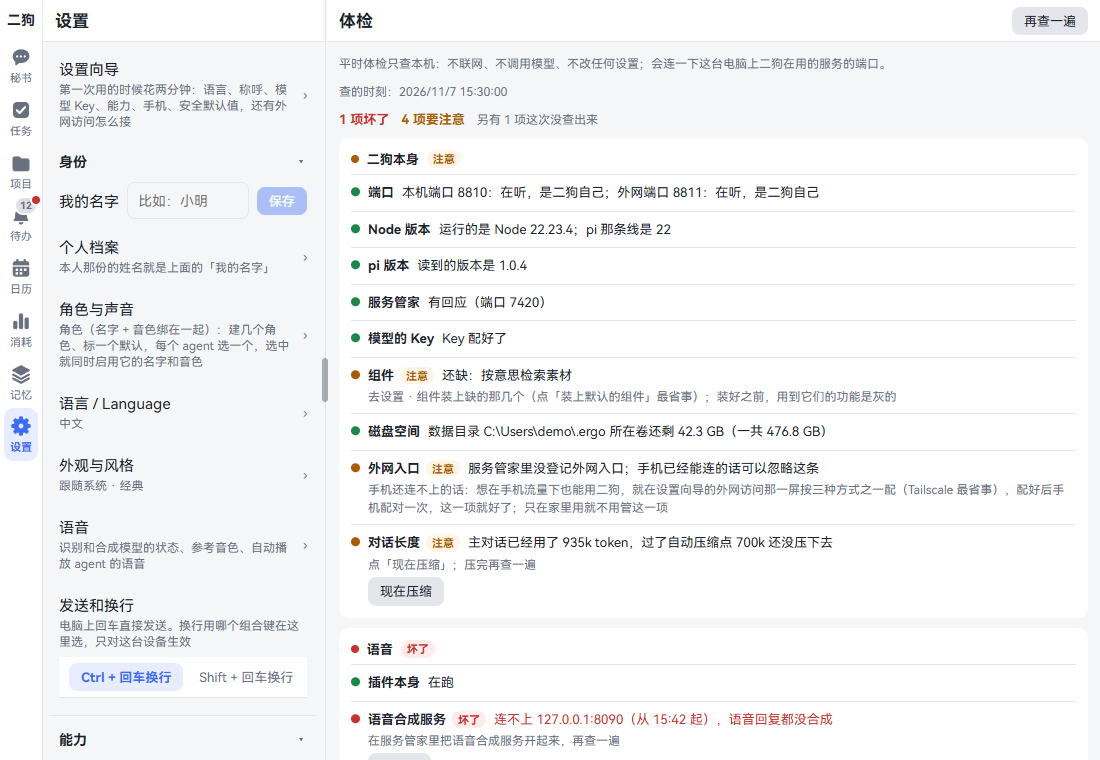
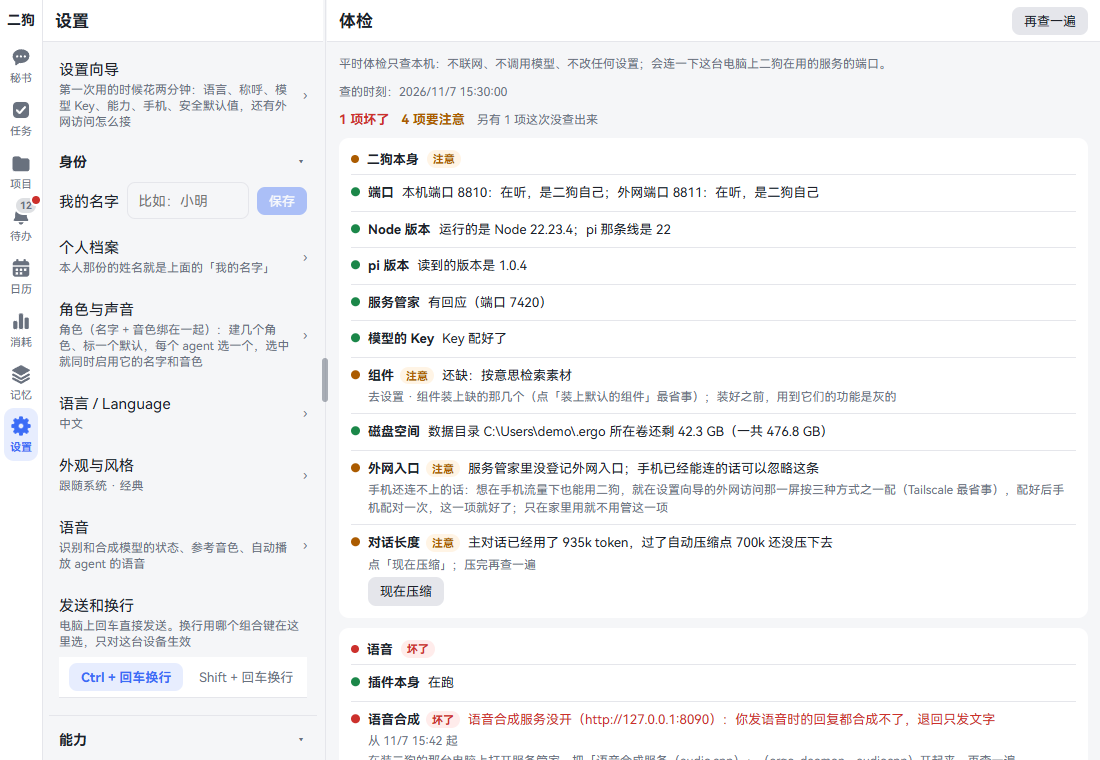
feat: 体检页的"去看看"能新开一页打开服务管家；原型的语音那一块换成真的五项，手册写语音插件自带的体检项（413）
- 网页：动作是 open、地址是这台电脑上别的网页（http(s)，服务管家）时画成新开一页的链接（和设备配对页"打开服务管家"一样），样子同按钮、不画下划线；二狗自己的地址照旧是按钮
- 原型 fake-doctor.ts：语音那一块是五项——合成服务没开（从 15:42 起，修法写到服务管家把 ergo-daemon--audiocpp 开起来，去看看跳服务管家），识别、参考音色、ffmpeg、N 卡正常；句子照 voice.json 抄，英文照表换
- 手册（中英）：体检一节加语音插件的五项和"语音回复、语音输入算开着"的说法，去看看可能另开服务管家；配图换成原型新的样子；插件开发手册的体检项一段加语音插件这个例子；CHANGELOG
- 测试：外面的网页画成链接、点了不经页面跳转；原型语音那一块的五项和合成那一项的动作

Claude-Session: https://claude.ai/code/session_01LuccspkYbJahV5zpQMTyxW

Changed region(s): [[0.3091, 0.9382, 0.9273, 1.0]]

diff --git a/packages/web/src/prototype/fake-doctor.ts b/packages/web/src/prototype/fake-doctor.ts
@@ -2,11 +2,12 @@
 // - 二狗本身：八项（组件缺记忆的向量模型、外网入口没查到依据，都是注意，各带修法；句子由协议包的八项拼句按当前语言拼），
 //   加一项编的"对话长度"（主对话过了自动压缩点，带"现在压缩"按钮；410 做的那种）；
 // - 插件块：每个在跑的插件一块（插件本身在跑）；记忆多两项（推理库正常、记忆简报这次没查出来），Looki 的数据源过期（跳到数据源详情），
-//   语音合成服务坏了（跳到设置 · 语音），Codex 要的外部程序没装（插件本身和运行时都是不适用），手机、Google 的数据源正常，
+//   语音那一块是 413 的五项（合成服务连不上、从 15:42 起，修法写到服务管家把组件装的那一条开起来，"去看看"跳服务管家的网页；
+//   识别、参考音色、ffmpeg、N 卡正常），Codex 要的外部程序没装（插件本身和运行时都是不适用），手机、Google 的数据源正常，
 //   Claude Code 的运行时正常；
 // - 停用、移除了的插件（地址带 ?demo-plugins-off=…）不成块，只列名字。
-// 二狗替插件生成的那几项照守护进程的文案键拼（doctorItemText，和真的一样）；插件自己的检查项（412、413 才做）是编好的中文，
-// 英文在 en/fake-doctor.ts（假 HTTP 照表换）。
+// 二狗替插件生成的那几项照守护进程的文案键拼（doctorItemText，和真的一样）；插件自己的检查项是编好的中文（插件的文案键在插件自己的
+// 语言文件里，网页的词典里没有；语音那几句照 voice.json 的 voice.doctor.* 抄），英文在 en/fake-doctor.ts（假 HTTP 照表换）。
 import {
   coreDoctorItem,
   DOCTOR_CHECKS,
@@ -54,10 +55,19 @@ function keyed(id: string, level: DoctorLevel, title: DoctorMessage, fact: Docto
   return { id, level, ...shape, ...(extra.since ? { since: extra.since } : {}), ...(extra.action ? { action: extra.action } : {}), text: doctorItemText(shape) };
 }
 
-/** 编好句子的一项（插件自己的检查项：文案键在插件的语言文件里，412、413 才有，这里直接写句子） */
-function said(id: string, level: DoctorLevel, title: string, fact: string, extra: { fix?: string; action?: DoctorAction } = {}): DoctorItemView {
+/** 编好句子的一项（插件自己的检查项：文案键在插件的语言文件里，网页拿不到，这里直接写句子） */
+function said(id: string, level: DoctorLevel, title: string, fact: string, extra: { fix?: string; since?: string; action?: DoctorAction } = {}): DoctorItemView {
   const demo: DoctorMessage = { key: "demo" };
-  return { id, level, title: demo, fact: demo, ...(extra.fix ? { fix: demo } : {}), ...(extra.action ? { action: extra.action } : {}), text: { title, fact, ...(extra.fix ? { fix: extra.fix } : {}) } };
+  return {
+    id,
+    level,
+    title: demo,
+    fact: demo,
+    ...(extra.fix ? { fix: demo } : {}),
+    ...(extra.since ? { since: extra.since } : {}),
+    ...(extra.action ? { action: extra.action } : {}),
+    text: { title, fact, ...(extra.fix ? { fix: extra.fix } : {}) },
+  };
 }
 
 /** 时间写成"11/7 14:30"这样（和守护进程一样） */
@@ -73,9 +83,17 @@ function extras(name: string): DoctorItemView[] {
       // 记忆简报这次没查出来：事实和修法是体检自己的那两句
       return [said("graph", "ok", "推理库", "能打开；昨晚 03:12 整理过"), said("brief", "unknown", "记忆简报", t("doctor.unknown.timeout", { seconds: 1.5 }), { fix: t("doctor.fix.retry") })];
     case "voice":
+      // 413 的五项：合成服务停了（组件装的那一条），去看看跳服务管家的网页
       return [
-        said("speech", "error", "语音合成服务", "连不上 127.0.0.1:8090（从 15:42 起），语音回复都没合成", { fix: "在服务管家里把语音合成服务开起来，再查一遍", action: { kind: "open", route: "#/more/voice" } }),
-        said("recognizer", "ok", "语音识别服务", "在听（127.0.0.1:8091）"),
+        said("speech", "error", "语音合成", "语音合成服务没开（http://127.0.0.1:8090）：你发语音时的回复都合成不了，退回只发文字", {
+          fix: "在装二狗的那台电脑上打开服务管家，把「语音合成服务（audio.cpp）」（ergo-daemon--audiocpp）开起来，再查一遍",
+          since: "2026-11-07T15:42:00+08:00",
+          action: { kind: "open", route: "http://127.0.0.1:7420/" },
+        }),
+        said("recognizer", "ok", "语音识别", "服务管家托管的识别服务（127.0.0.1:8091）：模型加载好了（large-v3）"),
+        said("references", "ok", "参考音色", "有 2 条，语音回复用「示例音色」"),
+        said("ffmpeg", "ok", "ffmpeg", "找到了：C:\\Tools\\ffmpeg\\bin\\ffmpeg.exe"),
+        said("gpu", "ok", "N 卡", "有 N 卡：语音合成、识别跑在显卡上"),
       ];
     case "looki":
       return [

diff --git a/packages/web/src/pages/more/DoctorPage.tsx b/packages/web/src/pages/more/DoctorPage.tsx
@@ -2,7 +2,8 @@
 // 最上面一句说明，然后是总状态（坏了几项、要注意几项、都正常；没查出来的另起一句灰字）和查的时刻；下面按块显示——
 // "二狗本身"一块在最前，每个在跑或没装上的插件一块（有问题的在前），块头是名字和这一块最差的结果；
 // 每项一行：结果的小圆点、名字（不正常的带结果的小签）、查出来的事实、"从什么时候起"、怎么修，带动作的有一个按钮
-// （去看看：跳到那一页；现在压缩：和会话 ⚙ 里同一个接口）；不适用的淡显、排在块的最后。停用了的插件最底下一行列名字。
+// （去看看：跳到那一页，是二狗之外的网页——服务管家——就新开一页；现在压缩：和会话 ⚙ 里同一个接口）；不适用的淡显、排在块的最后。
+// 停用了的插件最底下一行列名字。
 // 右上"再查一遍"（重新请求 GET /api/doctor）。演示页用原型编的一份（prototype/fake-doctor.ts）。
 // 每项查什么、几级怎么判、句子怎么拼都在守护进程（packages/daemon/src/doctor/）；形状在共享协议包的 doctor.ts；
 // 页面上的几句（总状态、几种结果的叫法、"从什么时候起"）在 app/doctor.ts，中英文案在 locales/*/doctor.json。
@@ -12,7 +13,7 @@ import { doctorActionText, doctorAtText, doctorLevelText, doctorOffText, doctorS
 import { useDoctor } from "../../app/page-doctor.ts";
 import { type Navigate, parseHash } from "../../app/route.ts";
 import { useStore } from "../../app/store.tsx";
-import { type DoctorAction, type DoctorGroupView, type DoctorItemView, type DoctorView, t } from "../../state/index.ts";
+import { type DoctorAction, type DoctorGroupView, type DoctorItemView, type DoctorView, isExternalDoctorRoute, t } from "../../state/index.ts";
 import { TopBar } from "../../ui/common.tsx";
 import { useToast } from "../../ui/toast.tsx";
 
@@ -44,9 +45,16 @@ export function DoctorItemRow({ item, onAction, busy }: { item: DoctorItemView }
         {item.text.fix !== undefined && <span className="doctor-fix">{item.text.fix}</span>}
         {action && (
           <span className="doctor-action">
-            <button type="button" className="btn ghost small" data-action={action.kind} disabled={doing || onAction === undefined} onClick={() => onAction?.(action)}>
-              {doctorActionText(action, doing)}
-            </button>
+            {action.kind === "open" && isExternalDoctorRoute(action.route) ? (
+              // 二狗之外的网页（服务管家）：新开一页，和设备配对页"打开服务管家"一样是个链接
+              <a className="btn ghost small" data-action={action.kind} href={action.route} target="_blank" rel="noreferrer">
+                {doctorActionText(action)}
+              </a>
+            ) : (
+              <button type="button" className="btn ghost small" data-action={action.kind} disabled={doing || onAction === undefined} onClick={() => onAction?.(action)}>
+                {doctorActionText(action, doing)}
+              </button>
+            )}
           </span>
         )}
       </div>

diff --git a/packages/web/src/prototype/en/fake-doctor.ts b/packages/web/src/prototype/en/fake-doctor.ts
@@ -5,11 +5,18 @@ export const EN_DOCTOR: Phrases = {
   "推理库": "Reasoning store",
   "能打开；昨晚 03:12 整理过": "Opens fine; tidied up at 03:12 last night",
   "记忆简报": "Memory briefing",
-  "语音合成服务": "Speech synthesis service",
-  "连不上 127.0.0.1:8090（从 15:42 起），语音回复都没合成": "Can't reach 127.0.0.1:8090 (since 15:42); no voice replies were synthesized",
-  "在服务管家里把语音合成服务开起来，再查一遍": "Start the speech synthesis service in the service manager, then run the checkup again",
-  "语音识别服务": "Speech recognition service",
-  "在听（127.0.0.1:8091）": "Listening (127.0.0.1:8091)",
+  "语音合成": "Speech synthesis",
+  "语音合成服务没开（http://127.0.0.1:8090）：你发语音时的回复都合成不了，退回只发文字":
+    "The speech synthesis service isn't running (http://127.0.0.1:8090): replies to your voice messages can't be synthesized and fall back to text only",
+  "在装二狗的那台电脑上打开服务管家，把「语音合成服务（audio.cpp）」（ergo-daemon--audiocpp）开起来，再查一遍":
+    "On the computer running ergo, open the service manager, start “Speech synthesis service (audio.cpp)” (ergo-daemon--audiocpp), then run the checkup again",
+  "语音识别": "Speech recognition",
+  "服务管家托管的识别服务（127.0.0.1:8091）：模型加载好了（large-v3）": "The recognition service run by the service manager (127.0.0.1:8091): model loaded (large-v3)",
+  "参考音色": "Reference voices",
+  "有 2 条，语音回复用「示例音色」": "2 available; voice replies use “Sample voice”",
+  "找到了：C:\\Tools\\ffmpeg\\bin\\ffmpeg.exe": "Found: C:\\Tools\\ffmpeg\\bin\\ffmpeg.exe",
+  "N 卡": "NVIDIA GPU",
+  "有 N 卡：语音合成、识别跑在显卡上": "NVIDIA GPU present: speech synthesis and recognition run on the GPU",
   "没装 Codex：在终端里跑 npm i -g @openai/codex，装好后在设置 · 插件里启用": "Codex isn't installed: run npm i -g @openai/codex in a terminal, then enable it in Settings · Plugins",
   "对话长度": "Conversation length",
   "主对话已经用了 935k token，过了自动压缩点 700k 还没压下去": "The main conversation is at 935k tokens, past its auto-compaction point of 700k, and hasn't been compacted",

diff --git a/packages/web/test/pages/doctor.test.ts b/packages/web/test/pages/doctor.test.ts
@@ -143,6 +143,18 @@ describe("按块显示", () => {
     expect(knownDoctorAction({ kind: "open", route: "#/more/plugins" })).toBe(true);
     expect(doctorActionText({ kind: "open", route: "#/more/plugins" })).toBe("去看看");
   });
+
+  test("去看看跳二狗之外的网页（服务管家，413）：画成新开一页的链接，不经页面的跳转", () => {
+    const speech = item("speech", "error", "语音合成", "连不上", { action: { kind: "open", route: "http://127.0.0.1:7420/" } });
+    let clicked = 0;
+    const html = renderToStaticMarkup(createElement(DoctorItemRow, { item: speech, onAction: () => (clicked += 1) }));
+    expect(html).toContain('<a class="btn ghost small" data-action="open" href="http://127.0.0.1:7420/" target="_blank" rel="noreferrer">去看看</a>');
+    expect(html).not.toContain("<button");
+    expect(clicked).toBe(0);
+    // 二狗自己的地址照旧是按钮
+    const inside = renderToStaticMarkup(createElement(DoctorItemRow, { item: { ...speech, action: { kind: "open", route: "#/more/voice" } }, onAction: noop }));
+    expect(inside).toContain('<button type="button" class="btn ghost small" data-action="open"');
+  });
 });
 
 /** 原型的插件清单（off 里的停用了） */
@@ -163,6 +175,18 @@ describe("原型编的一份", () => {
     expect(view.groups.find((g) => g.id === "memory")!.items.find((i) => i.id === "brief")!.text.fact).toBe("这次没查出来：1.5 秒内没查完");
     // 坏了的插件块排在前面（语音），总状态是坏了
     expect(view.groups[1]!.id).toBe("voice");
+    // 语音那一块是 413 的五项：合成服务坏了（从 15:42 起，去看看跳服务管家的网页），别的正常
+    const voice = view.groups[1]!.items;
+    expect(voice.map((i) => [i.id, i.level])).toEqual([
+      ["plugin", "ok"],
+      ["speech", "error"],
+      ["recognizer", "ok"],
+      ["references", "ok"],
+      ["ffmpeg", "ok"],
+      ["gpu", "ok"],
+    ]);
+    expect(voice[1]).toMatchObject({ since: "2026-11-07T15:42:00+08:00", action: { kind: "open", route: "http://127.0.0.1:7420/" } });
+    expect(voice[1]!.text.fix).toContain("服务管家");
     expect(view.level).toBe("error");
     expect(view.counts).toEqual({ error: 1, warn: 4, unknown: 1 });
     expect(view.off).toEqual([]);

diff --git a/packages/web/src/state/protocol.ts b/packages/web/src/state/protocol.ts
@@ -1211,7 +1211,7 @@ export type { SetupMarkBody, SetupStepId, SetupStepView, SetupView } from "@ergo
 // doctorCheck / doctorDataOf 是取某一项、按 id 收窄事实类型的两个小函数。
 // 409：五种结果、分块、动作按钮，汇总和排序的纯函数，八项的事实拼句（演示页的假数据用；真页面照守护进程拼好的 text 显示）
 export { DOCTOR_CHECKS, DOCTOR_FIX_UNKNOWN, doctorCheck, doctorDataOf } from "@ergo/protocol";
-export { coreDoctorItem, DOCTOR_ACTION_KINDS, DOCTOR_CORE_GROUP, DOCTOR_LEVELS, doctorCheckFact, doctorCheckTitle, doctorCounts, doctorFactText, doctorFixText, doctorItemText, doctorText, sortDoctorGroups, sortDoctorItems, worstLevel } from "@ergo/protocol";
+export { coreDoctorItem, DOCTOR_ACTION_KINDS, DOCTOR_CORE_GROUP, DOCTOR_LEVELS, doctorCheckFact, doctorCheckTitle, doctorCounts, doctorFactText, doctorFixText, doctorItemText, doctorText, isExternalDoctorRoute, sortDoctorGroups, sortDoctorItems, worstLevel } from "@ergo/protocol";
 export type { DoctorAction, DoctorGroupView, DoctorItemView, DoctorLevel, DoctorMessage, DoctorOffPlugin } from "@ergo/protocol";
 // 连接地址：手机从外面连到二狗用的地址，校验和排序和守护进程同一份
 export { checkManualConnectionAddress, orderConnectionAddresses } from "@ergo/protocol";

diff --git a/packages/web/src/styles/pages.css b/packages/web/src/styles/pages.css
@@ -5363,6 +5363,10 @@ a.att-icon:hover {
 .doctor-action {
   margin-top: 2px;
 }
+/* 去看看跳二狗之外的网页（服务管家）是个链接：和按钮一个样子，不画下划线 */
+.doctor-action a.btn {
+  text-decoration: none;
+}
 /* 结果的小圆点：正常绿、注意橙、坏了红、没查出来灰、不适用空心 */
 .doctor-mark {
   flex: none;

diff --git a/docs/user-guide/settings.en.md b/docs/user-guide/settings.en.md
@@ -554,7 +554,7 @@ Each item has a small dot in front, and there are five results:
 | Not checked (grey) | The check timed out or failed this time. That doesn't count as broken and doesn't lower the overall status. Press **Run again** |
 | Not applicable (hollow, faded) | The feature isn't on or the data source isn't connected, so it isn't checked; listed last in its block |
 
-Items that aren't OK show what was found, since when, and how to fix it. Where one click fixes it there's a button: **Take a look** jumps to the right page, **Compact now** compacts that conversation. After fixing, click **Run again** at the top right.
+Items that aren't OK show what was found, since when, and how to fix it. Where one click fixes it there's a button: **Take a look** jumps to the right page (the service manager's page opens in a new tab, and only works on the computer running ergo), **Compact now** compacts that conversation. After fixing, click **Run again** at the top right.
 
 What ergo checks for each plugin:
 
@@ -563,6 +563,16 @@ What ergo checks for each plugin:
 | The plugin itself | Running is OK; not loaded is broken, with the reason; an external program it needs isn't installed and you don't use it, that's just a hint (not applicable) |
 | Data sources | Not connected, or both uses off: not checked. Needs authorizing again, or can't connect: broken. Scheduled import with no successful sync for over 3 times its interval counts as stale (heads-up); the last sync failing is also a heads-up |
 | Runtimes | Usable is OK; not installed and no task or project uses it is just a hint; not installed while a task or project uses it is broken |
+
+The voice plugin brings five checks of its own. Voice replies count as on when speech synthesis is installed in Settings · Components, or a service is registered on the synthesis port in the service manager (an audio.cpp you registered by hand counts too); voice input counts as on when speech recognition is installed in Settings · Components or you've configured your own. Checks for what isn't on are skipped.
+
+| Check | How it's judged | If it's wrong |
+|---|---|---|
+| Speech synthesis | The synthesis service (audio.cpp) can be reached. ergo already probes it every minute; the checkup reads that result and probes right away if it's been too long | Can't reach it, or the trial synthesis failed: broken. On the computer running ergo, open the service manager and start the service the fix names (**Take a look** opens the service manager). The GPU being busy with another program is a heads-up |
+| Speech recognition | Recognition can be used. The process ergo starts itself is judged by its status; a service run by the service manager or on audio.cpp gets its port probed | Follow the fix: check that service in the service manager, or the Python in the config |
+| Reference voices | There's at least one | None at all is a heads-up: import some clean speech in Settings · Voice |
+| ffmpeg | It's on PATH | Not found is a heads-up: without it reference voices can only be imported as WAV. Install ffmpeg and restart ergo |
+| NVIDIA GPU | There is one | None is just a hint (not applicable): synthesis and recognition run on the CPU and will be slow |
 
 ergo's own eight checks:
 

diff --git a/docs/user-guide/settings.md b/docs/user-guide/settings.md
@@ -552,7 +552,7 @@ ergo start
 | 没查出来（灰） | 这次查的时候超时或出错，不算坏，不拉低总状态。点「再查一遍」 |
 | 不适用（空心、淡显） | 没开这个功能、没连这个数据源，就不查；排在块的最后 |
 
-不正常的项写着查出来的事实、从什么时候起、怎么修；能一点就修的带一个按钮：「去看看」跳到对应的页面，「现在压缩」把那个对话压缩一下。修完点右上角「再查一遍」。
+不正常的项写着查出来的事实、从什么时候起、怎么修；能一点就修的带一个按钮：「去看看」跳到对应的页面（服务管家的网页另开一页，要在装二狗的那台电脑上看），「现在压缩」把那个对话压缩一下。修完点右上角「再查一遍」。
 
 二狗自动替插件查的：
 
@@ -561,6 +561,16 @@ ergo start
 | 插件本身 | 在跑是正常；没装上是坏了，附原因；要的外部程序没装、你也没用它，只是提示（不适用） |
 | 数据源 | 没连、两种用法都关着的不查；要重新授权、连不上是坏了；定期导入超过间隔 3 倍没同步成功算过期（注意），最近一次同步出错也是注意 |
 | 运行时 | 能用是正常；没装、没有任务和项目用它只是提示；没装可有任务或项目用着它，是坏了 |
+
+语音插件自己带五项。语音回复算开着：设置 · 组件里装了语音合成，或者服务管家里有服务登记在合成服务的端口上（自己手工登记的 audio.cpp 也算）；语音输入算开着：设置 · 组件里装了语音识别，或者配了自己的识别。没开的那几项不查。
+
+| 项 | 怎么算 | 不对时怎么办 |
+|---|---|---|
+| 语音合成 | 合成服务（audio.cpp）连得上。二狗每分钟本来就探一次，体检直接看结果，太久没探就当场探一下 | 连不上、试合成出错是坏了：在装二狗的电脑上打开服务管家，把修法里说的那条服务开起来（「去看看」打开服务管家）；显卡被别的程序占着是注意 |
+| 语音识别 | 识别能用。二狗自己拉起的看状态；服务管家托管的、audio.cpp 上的连一下它的端口 | 照修法检查服务管家里的那条服务、或者配置里的 Python |
+| 参考音色 | 至少有一条 | 一条都没有是注意：到设置 · 语音导入一段干净的人声 |
+| ffmpeg | PATH 上找得到 | 找不到是注意：没有它参考音色只能导入 WAV。装上 ffmpeg 再重启二狗 |
+| N 卡 | 有 N 卡 | 没有只是提示（不适用）：合成、识别跑在 CPU 上会很慢 |
 
 二狗本身的八项：
 

diff --git a/docs/architecture/plugin-development.md b/docs/architecture/plugin-development.md
@@ -242,7 +242,9 @@ expect(listNotes(k.store.reader)).toEqual([]);
 - `id`：插件里不重复，小写英文、数字和连字符（`plugin` 和原来八项的 id 留给二狗）；`title`：名字的文案键（要参数时写 `{ key, params }`）；
 - `cost`：`passive` 只读内存、文件、事件，`local` 连本机端口、起本机进程。平时体检两种都跑：不联网、不调模型、不改东西；
 - `timeoutMs`：默认 1500。超时、抛错、交回的东西不像样只算这一项"没查出来"，不影响别的项；`run(signal)` 要快，重活先在后台算好，这里只读结果；
-- `run` 交回 `DoctorFinding`：`level` 是 `ok`、`warn`（能用但打折扣）、`error`（用不了）、`unknown`（没查出来）、`na`（没开这个功能，不查）之一；`fact`、`fix` 是文案键 + 参数（键放插件自己的语言文件 `<插件>.doctor.*`，中英都加；时间、数字先按当前语言写好放进参数）；可选的 `since`（ISO）和一个 `action`（`{ kind: "open", route: "#/more/…" }` 跳页，`{ kind: "compact", agentId }` 现在压缩）。
+- `run` 交回 `DoctorFinding`：`level` 是 `ok`、`warn`（能用但打折扣）、`error`（用不了）、`unknown`（没查出来）、`na`（没开这个功能，不查）之一；`fact`、`fix` 是文案键 + 参数（键放插件自己的语言文件 `<插件>.doctor.*`，中英都加；时间、数字先按当前语言写好放进参数）；可选的 `since`（ISO）和一个 `action`（`{ kind: "open", route: "#/more/…" }` 跳页，`route` 也可以是这台电脑上别的网页 `http(s)://…`——比如服务管家，网页新开一页；`{ kind: "compact", agentId }` 现在压缩）。
+
+例子是语音插件（`packages/daemon/src/voice/doctor.ts`，413）：五项各自先看功能开没开（没开交 `na`）；合成直接读预热每分钟探一次的状态，太久没探才当场探本机端口（`cost: "local"`，自己限时 1.5 秒、整项 2.5 秒）；只连本机地址，当场探的结果不写回状态。插件自己看不到的现状（组件页的功能门、服务管家里登记在某端口的服务）由内核服务给（`KERNEL.voiceSetup`）。
 
 网页的词典里没有插件的区域，句子由守护进程按当前语言拼好（`DoctorItemView.text`）交给网页；秘书的只读工具 `check_health` 读的也是这一份。
 

diff --git a/CHANGELOG.md b/CHANGELOG.md
@@ -7,6 +7,7 @@
 ### 设置
 
 - **体检分块、五种结果、插件自带体检项**：设置 · 数据与设备 · 体检按块显示——二狗本身一块（原来的八项），每个插件一块（插件本身在不在跑、它的数据源、它的 Claude Code / Codex 运行时，二狗自动替它查）；每项是正常、注意、坏了、没查出来、不适用之一，写着查出来的事实、从什么时候起、怎么修，能一点就修的带按钮（去看看、现在压缩）。总状态取最差的，没查出来的不算坏。插件停用了它那一块就没了。数据源超过定期导入间隔 3 倍没同步成功算过期。跟二狗说「你自己体检一下」，它也能查这一页、告诉你哪里不对。见[手册](docs/user-guide/settings.md#体检)。
+- **体检查语音**：语音那一块多五项——语音合成服务连不连得上（二狗每分钟本来就探一次，太久没探就当场探一下）、语音识别能不能用、有没有参考音色、ffmpeg 在不在、有没有 N 卡。合成服务停了算坏了，写着从什么时候起，修法是到服务管家把那条服务开起来，「去看看」直接打开服务管家；组件页装的和自己在服务管家里手工登记的都认得。没开语音回复、语音输入的不查。见[手册](docs/user-guide/settings.md#体检)。
 
 ## [0.4.3] - 2026-11-04
 
